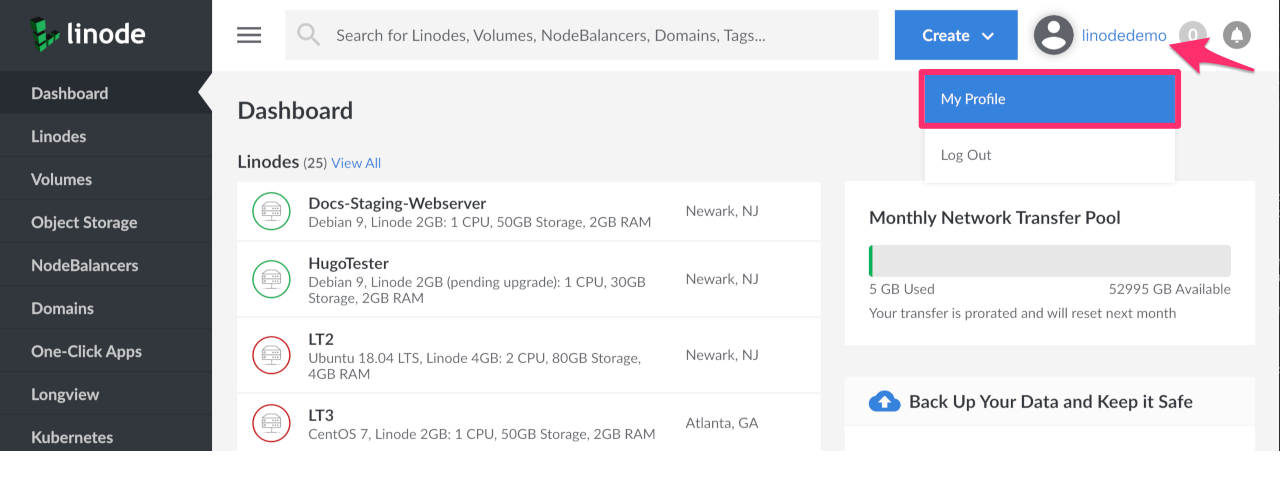
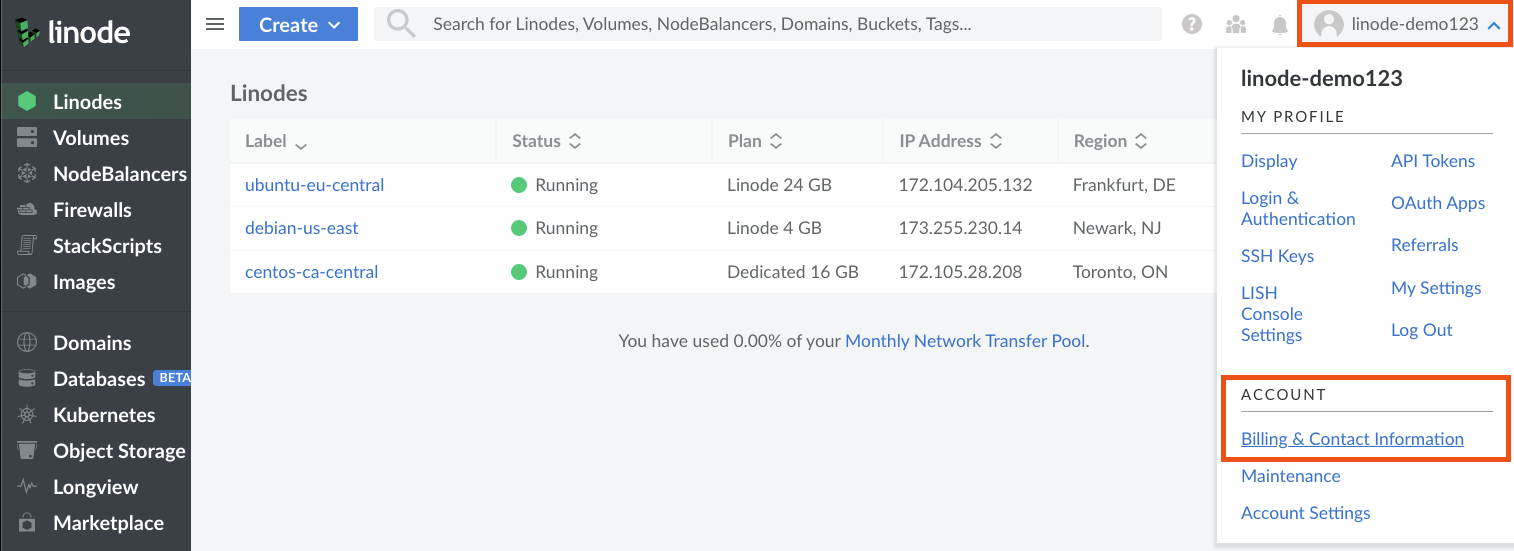
[Update] How to Change Your Email Address

diff --git a/docs/guides/quick-answers/linode-platform/how-to-change-your-email/index.md b/docs/guides/quick-answers/linode-platform/how-to-change-your-email/index.md
@@ -24,21 +24,19 @@ Changing your account's email address is easy and can be done two different ways
 
 1.  Log in to the [Cloud Manager](http://cloud.linode.com).
 
-1.  Click on your username and choose **My Profile** from the drop down menu.
+1.  Click on your username and choose **Billing and Contact Information** from the drop down menu.
 
     ![Click My Profile from Username Drop Down Menu](how-to-change-email-my-profile.png "Click My Profile from Username Drop Down Menu")
 
-1.  On the My Profile page, in the **Email** field, enter the email you would like to associate with your account.
+1.  On the Billing and Contact Information page, in the **Billing Contact** field, click the edit button to open the Billing Contact Info sidebar menu.
 
-1.  Click the **Save** button.
+    ![Click to Save a New Email](email-edit-button.png "Click to Save a New Email")
 
-    ![Click to Save a New Email](how-to-change-email-save.png "Click to Save a New Email")
+1. In the **Email** field, enter the email you would like to associate with your account.
 
-1.  Cloud Manager will tell you that the email address has been updated. You will also receive an email at this new address from Linode Support confirming this update.
+1.  Click the **Save** button to complete the change.
 
-1.  If you enter an invalid email address, the following error message is displayed.
-
-    ![Error Message for Invalid Email](how-to-change-email-error.png "Error Message for Invalid Email")
+    ![Click to Save a New Email](linode-demo-email-save.png "Click to Save a New Email")
 
 ## Using the API
 
